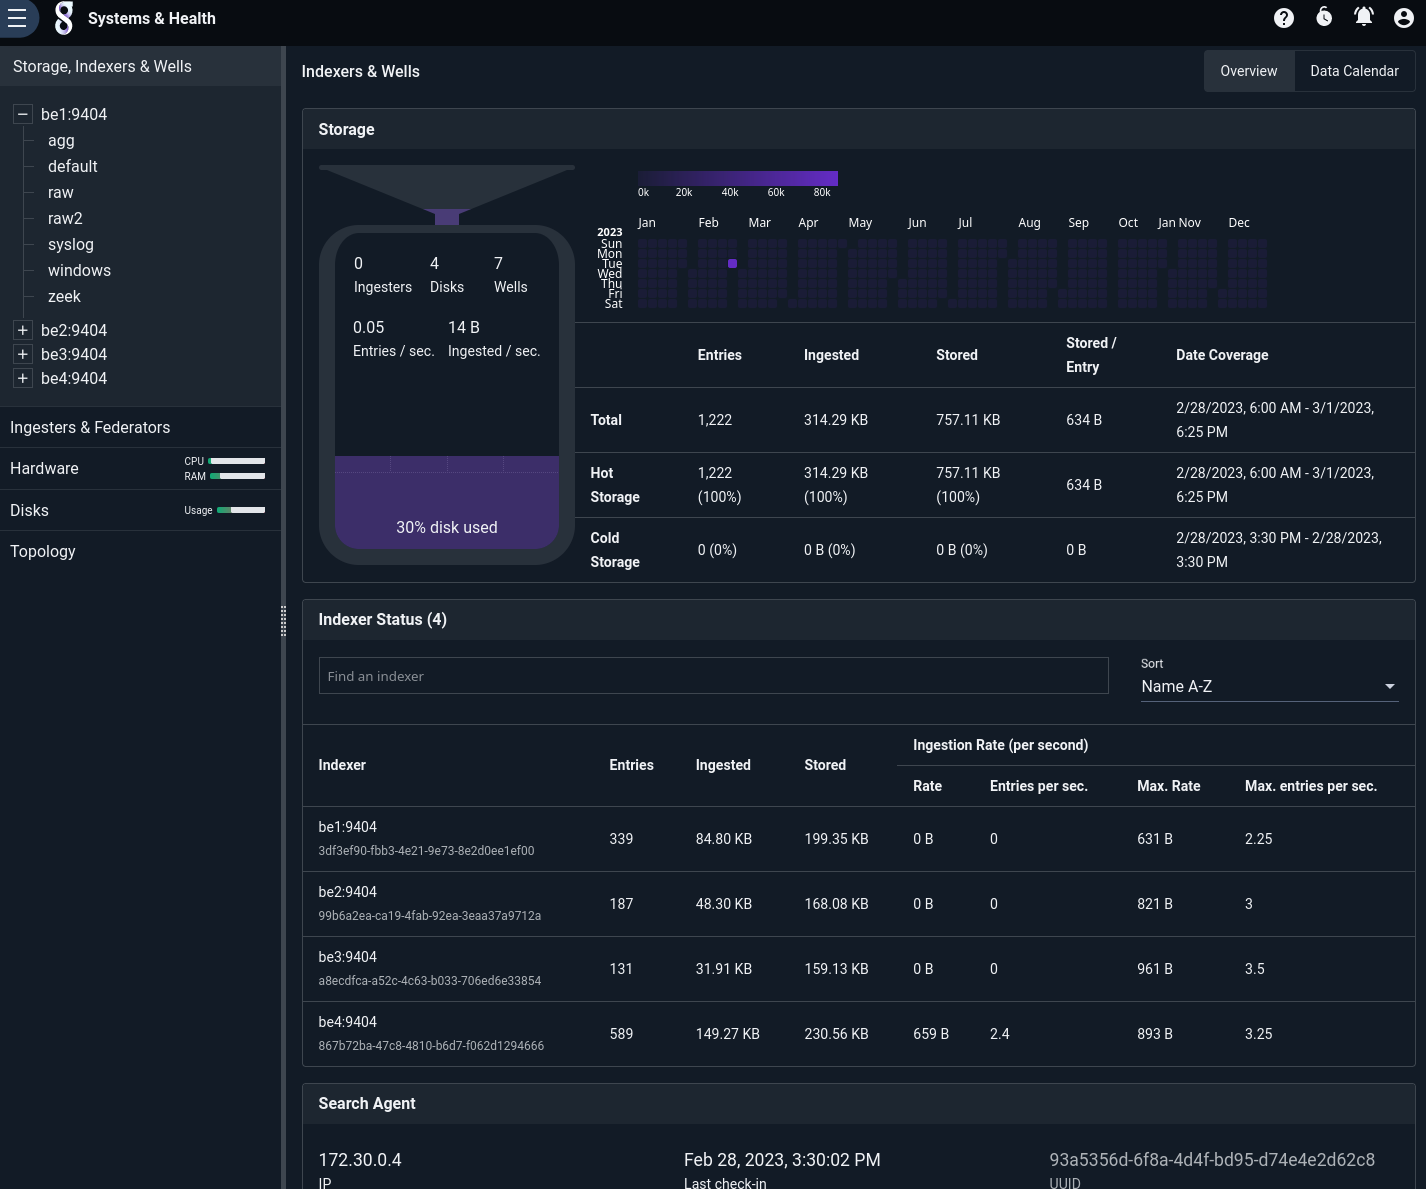
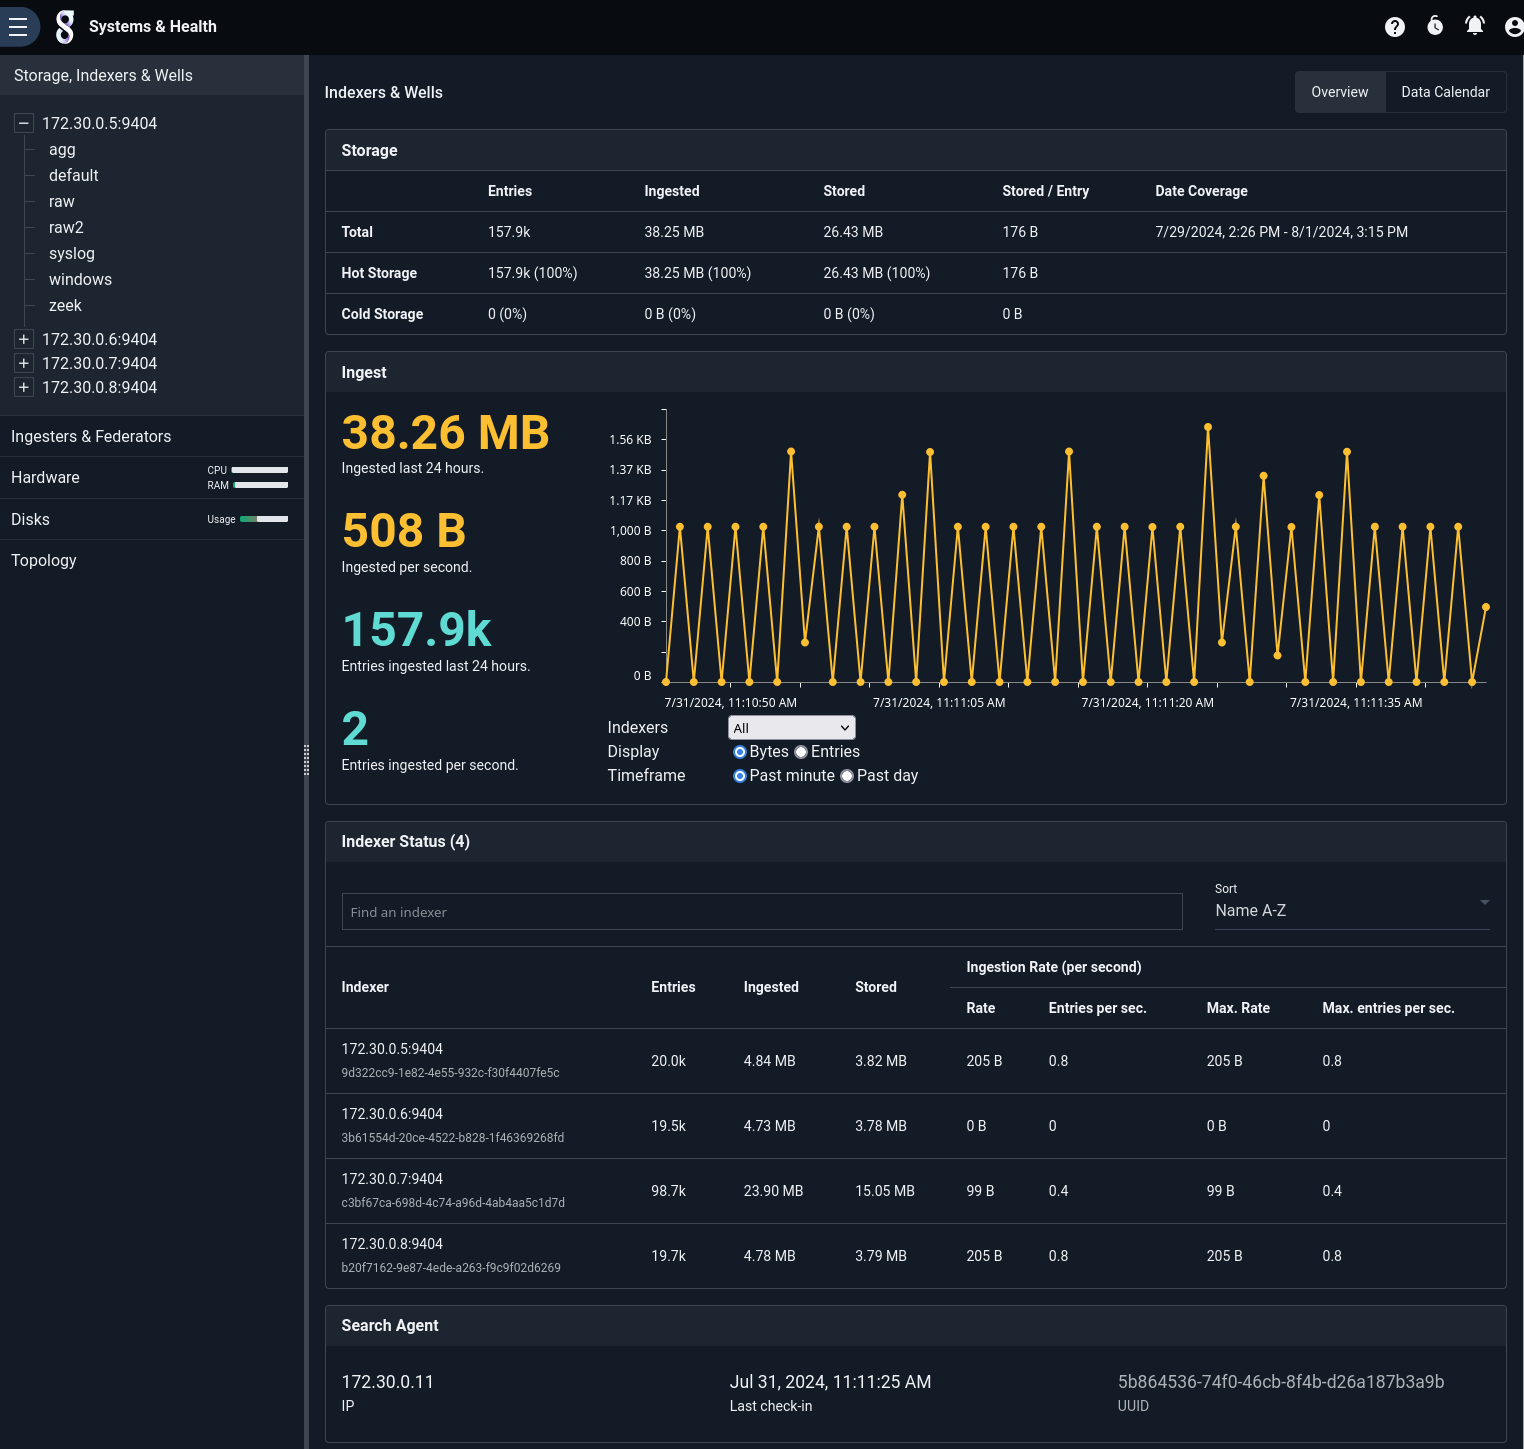
Update systems and health docs
Addresses #1063

diff --git a/gui/systems-health.md b/gui/systems-health.md
@@ -10,7 +10,7 @@ This page shows information about the data stored in the indexers of the Gravwel
 
 ![](storage.png)
 
-The Storage section shows a summary of how much data is in the system, with separate stats for hot and cold storage. The "dropper" graphic indicates how fast new entries are entering the system.
+The Storage section shows a summary of how much data is in the system, with separate stats for hot and cold storage. The Ingest chart shows the rate at which new data has been entering the system.
 
 At the bottom of the page, the Search Agent section shows information about the search agent component and when it last "checked in".
 
@@ -50,7 +50,7 @@ Each card has several different display options, selected via the links in the u
 
 ## Disks
 
-The Disks page contains information about disk storage on the cluster. Only disks which contain Gravwell data will be displayed, to avoid clutter. In the screenshot below, the root disk of indexer `be1` has been expanded to show the wells contained in Gravwell's storage area on that disk.
+The Disks page contains information about disk storage on the cluster. Only disks which contain Gravwell data will be displayed, to avoid clutter.
 
 ![](disks.png)
 
